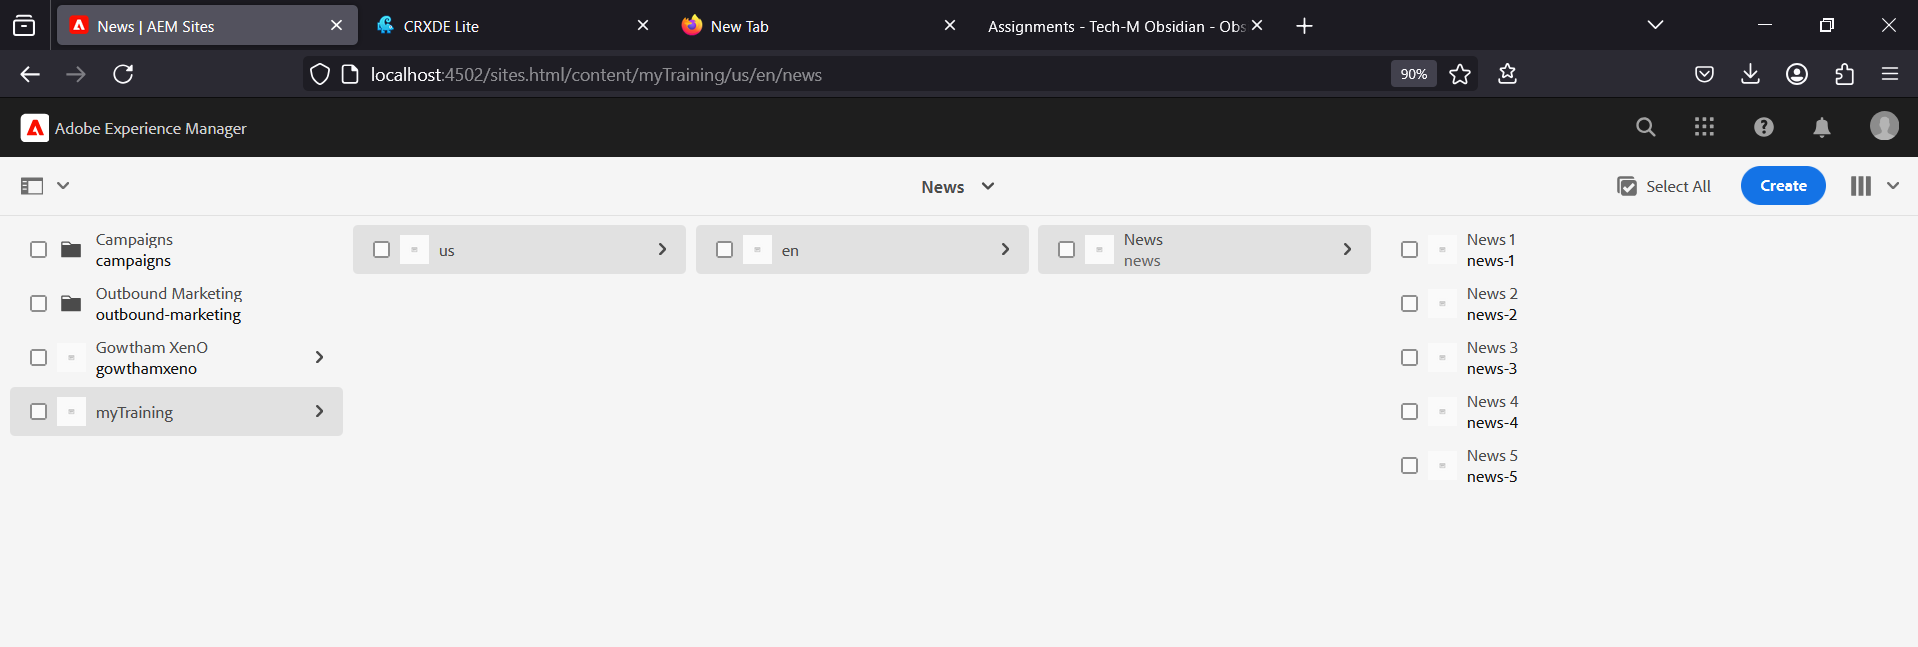
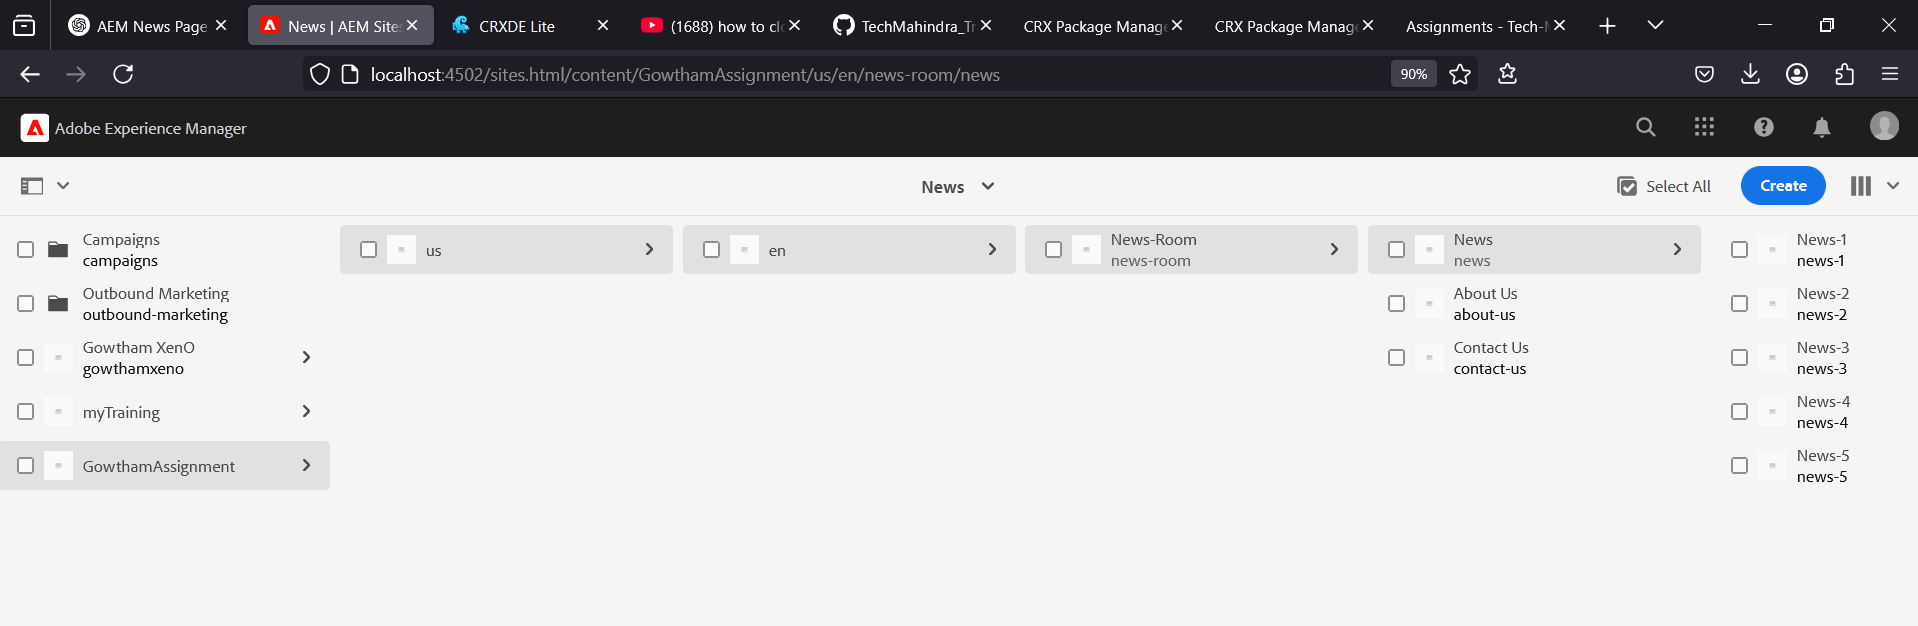
updated Screenshots

diff --git a/AEM_Tasks/Assignments/Day5_24-03-2025/Readme.md b/AEM_Tasks/Assignments/Day5_24-03-2025/Readme.md
@@ -16,7 +16,9 @@ We will create structured **News Articles** in AEM under a dedicated section.
    - **Headline** (`h2`)
    - **Article Content** (`p`)
    - **Publication Date**
-
+## Screenshots
+1. **News Pages**
+   ![Pages](screenshots/screenshot1.png)
 ---
 
 ### 2. Adding the News Component
@@ -39,7 +41,9 @@ The **News Component** will display news articles dynamically.
     <span>${newsModel.publicationDate}</span>
 </div>
 ```
-
+## Screenshots
+1. **News Component**
+   ![Pages](screenshots/screenshot6.png)
 ---
 
 ### 3. Setting Up the Header
@@ -53,7 +57,12 @@ A **Header Experience Fragment** will be created for seamless navigation.
    - **About Me** page
    - **Contact Us** page
 
-
+## Screenshots
+1. **Experience Fragments**
+   ![Pages](screenshots/screenshot7.png)
+---
+2. **Header XF**
+   ![Pages](screenshots/screenshot4.png)
 ---
 
 ### 4. Configuring the Footer
@@ -70,6 +79,9 @@ A **Footer Experience Fragment** will be configured with multiple sections.
 4. **Social Media Section**:
    - Use a **List Component** for social media links.
 
+## Screenshots
+1. **Footer XF**
+   ![Pages](screenshots/screenshot3.png)
 ---
 
 ### 5. Developing a Custom Service
@@ -91,7 +103,9 @@ public class HelloWorldService {
     }
 }
 ```
-
+## Screenshots
+ **Service**
+   ![Service](screenshots/screenshot2.png)
 ---
 
 ### 6. Implementing API Configuration
@@ -109,10 +123,4 @@ https://jsonplaceholder.typicode.com/posts
 ```
 
 ---
-
-## Screenshots
-1. **Pages**
-   ![Pages](screenshots/screenshot1.png)
-2. **Service**
-   ![Service](screenshots/screenshot2.png)
 
